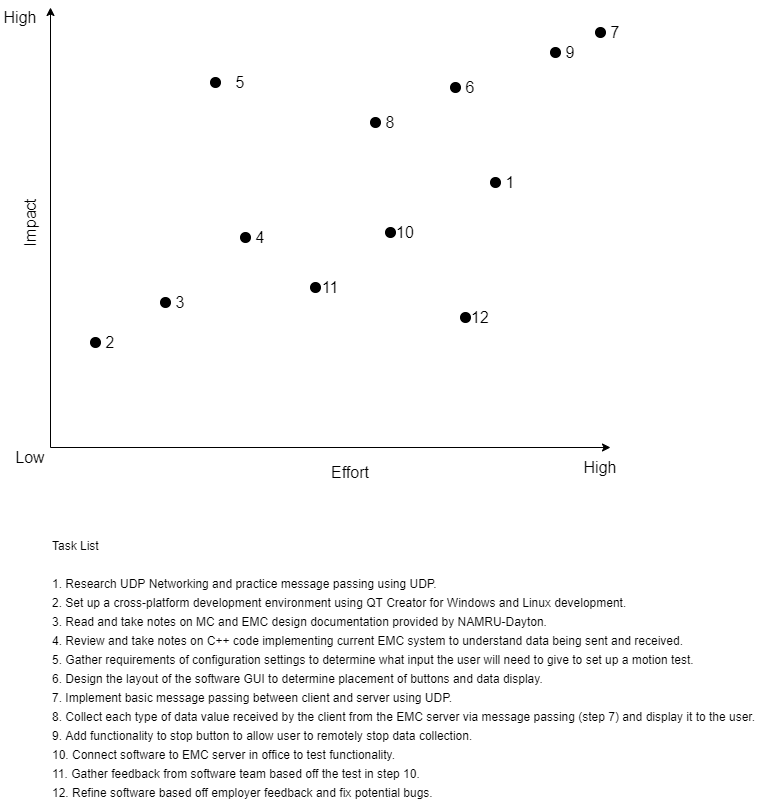
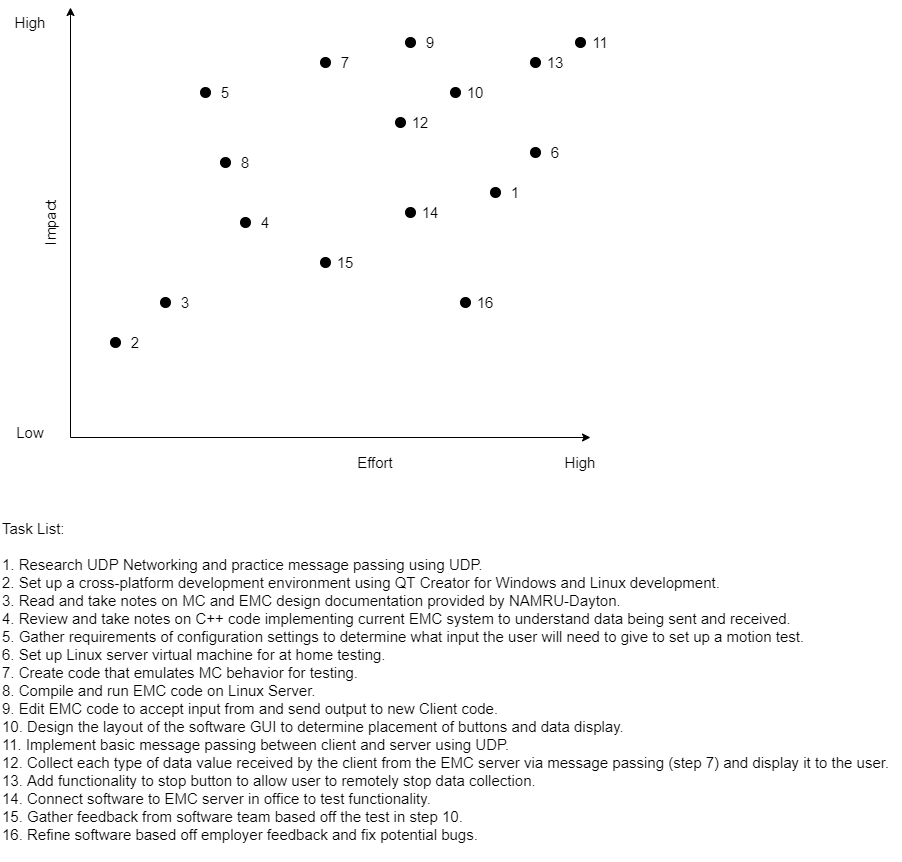
Updated effort matrix to match new task list.

diff --git a/README.md b/README.md
@@ -11,3 +11,9 @@ Dr. John Christopher Gallagher
 ## 2.) [Project Description](https://github.com/KateMcManus/SeniorDesign/blob/master/Assignments%20Fall%202021/ProjectDescription.md)
 
 ## 3.) [User Stories](https://github.com/KateMcManus/SeniorDesign/blob/master/Assignments%20Fall%202021/User_Stories.md) and [Design Diagrams](https://github.com/KateMcManus/SeniorDesign/tree/master/Assignments%20Fall%202021/Design%20Documents)
+
+## 4.) Tasks and Timeline
+	[Task List](https://github.com/KateMcManus/SeniorDesign/blob/master/Assignments%20Fall%202021/Task_list.md)
+	[Timeline](https://github.com/KateMcManus/SeniorDesign/blob/master/Assignments%20Fall%202021/Timeline.md)
+    [Milestones](https://github.com/KateMcManus/SeniorDesign/blob/master/Assignments%20Fall%202021/Milestones.md)
+    [Effort Matrix]
